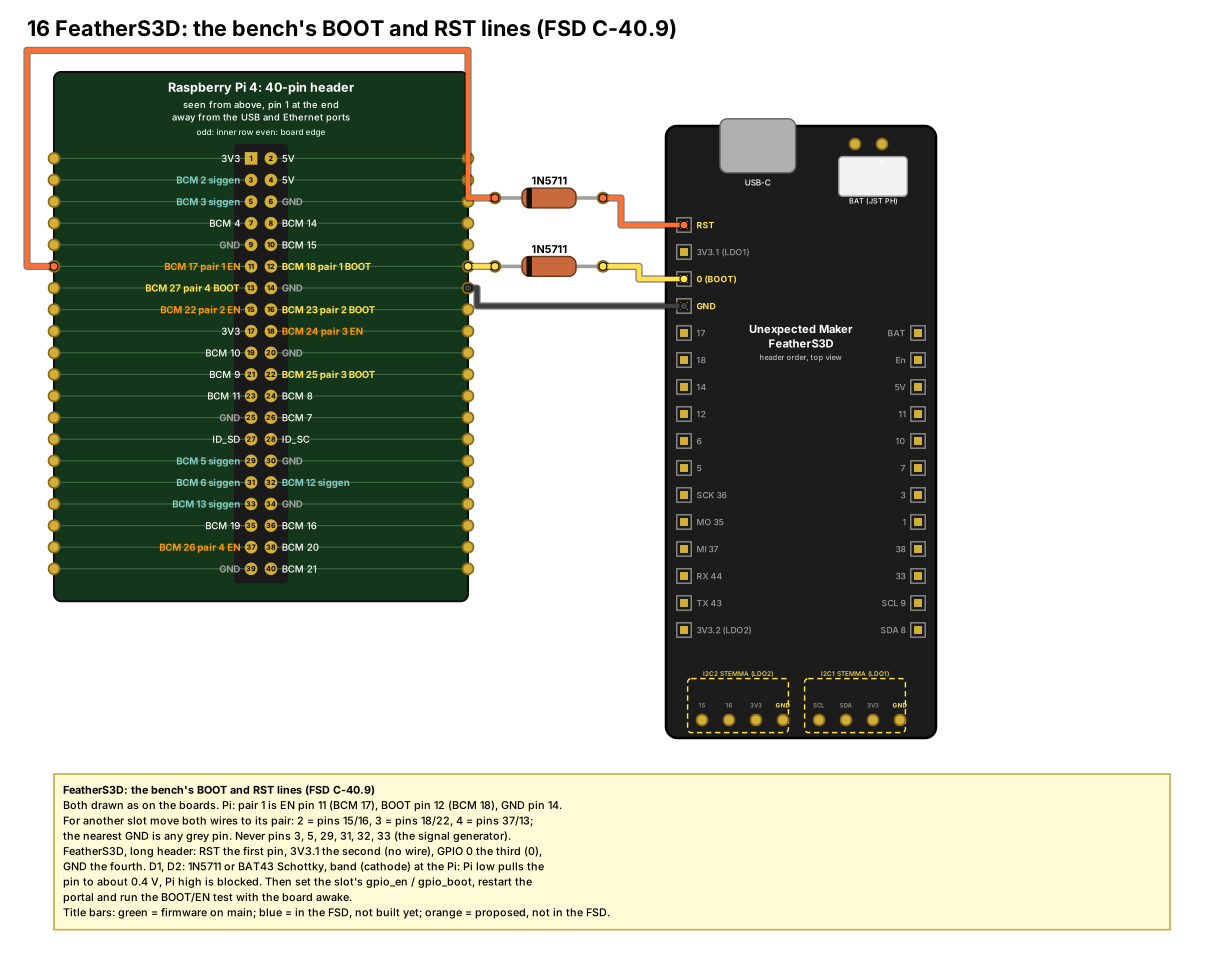
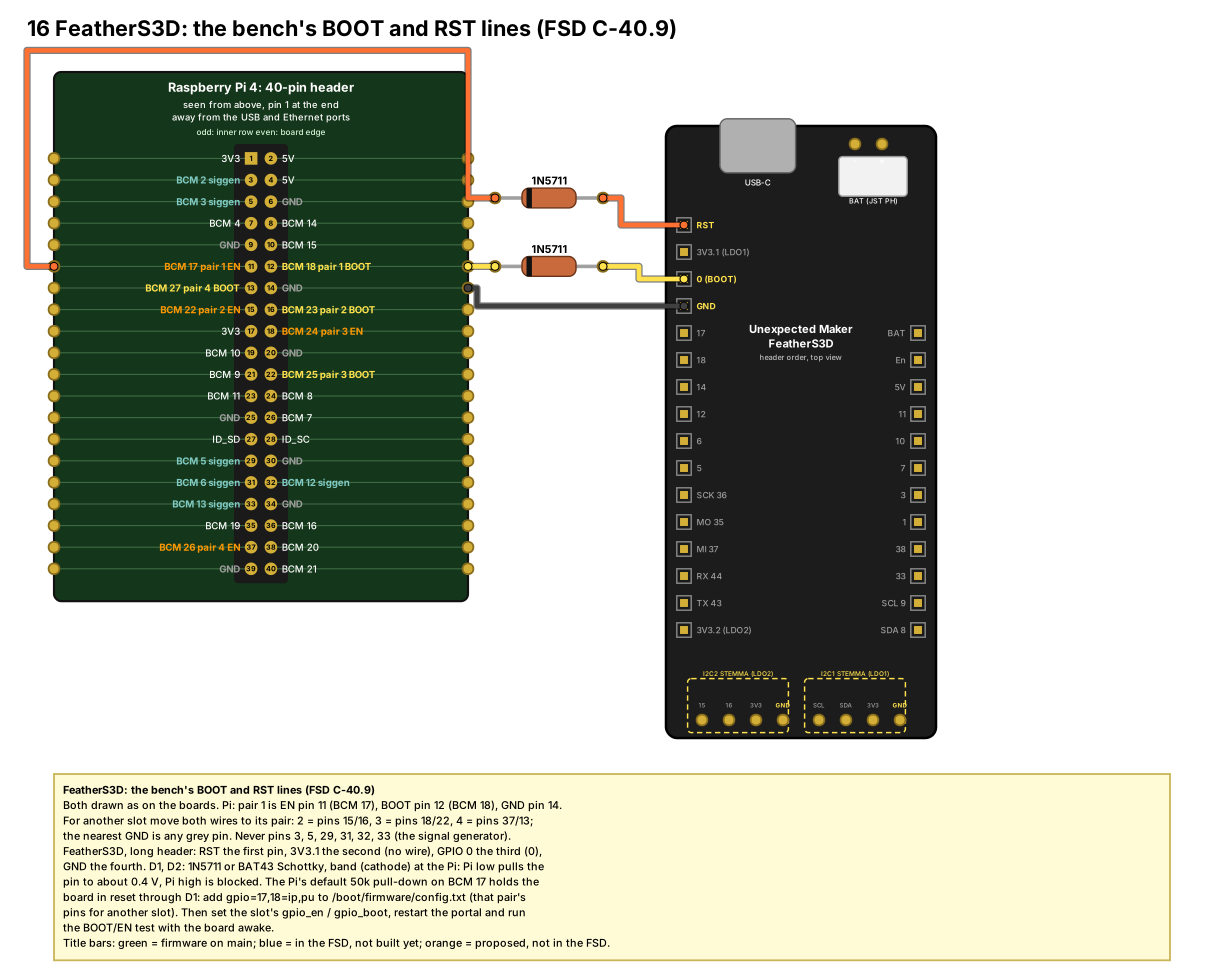
Bench lines: pull the Pi's EN/BOOT pins up from power-on
On the bench the FeatherS3D stayed in reset with the RST line connected:
BCM 17 idles as an input with the Pi's ~50k pull-down, which through the
diode beats the board's EN pull-up. config.txt gpio=17,18=ip,pu fixes it.

Claude-Session: https://claude.ai/code/session_014onQRfbGq7RwCZyjfNkbKg

Changed region(s): [[0.0307, 0.8951, 0.9818, 1.0]]

diff --git a/docs/Method/project/wiring/make_wiring.py b/docs/Method/project/wiring/make_wiring.py
@@ -1689,8 +1689,10 @@ def sheet_fs3_bench(S):
         "the nearest GND is any grey pin. Never pins 3, 5, 29, 31, 32, 33 (the signal generator).",
         "FeatherS3D, long header: RST the first pin, 3V3.1 the second (no wire), GPIO 0 the third (0),",
         "GND the fourth. D1, D2: 1N5711 or BAT43 Schottky, band (cathode) at the Pi: Pi low pulls the",
-        "pin to about 0.4 V, Pi high is blocked. Then set the slot's gpio_en / gpio_boot, restart the",
-        "portal and run the BOOT/EN test with the board awake.",
+        "pin to about 0.4 V, Pi high is blocked. The Pi's default 50k pull-down on BCM 17 holds the",
+        "board in reset through D1: add gpio=17,18=ip,pu to /boot/firmware/config.txt (that pair's",
+        "pins for another slot). Then set the slot's gpio_en / gpio_boot, restart the portal and run",
+        "the BOOT/EN test with the board awake.",
         LEGEND,
     ])
 

diff --git a/docs/Method/project/feathers3-build.md b/docs/Method/project/feathers3-build.md
@@ -70,7 +70,10 @@ Pi (sheet 16). The Pi pulls RST or GPIO 0 to about 0.4 V; when it drives high
 the diode blocks, the board's own pull-up holds the pin, and the Pi never feeds
 the board, even unpowered. Solder a 4-pin header into RST, 3V3.1, 0 and GND (or
 wires into RST, 0 and GND) and leave 3V3.1 unconnected. Pick a free GPIO pair
-from the harness manual's table, set the slot's `gpio_en` and `gpio_boot`,
+from the harness manual's table and set both pins to inputs with pull-ups from
+power-on (`gpio=17,18=ip,pu` in `/boot/firmware/config.txt` for pair 1): the
+Pi's default pull-down of about 50k, through the diode, holds the FeatherS3D in
+reset, since its EN pull-up is weaker. Then set the slot's `gpio_en` and `gpio_boot`,
 restart the portal and run the BOOT/EN test with the board awake.
 
 ## To check before wiring
